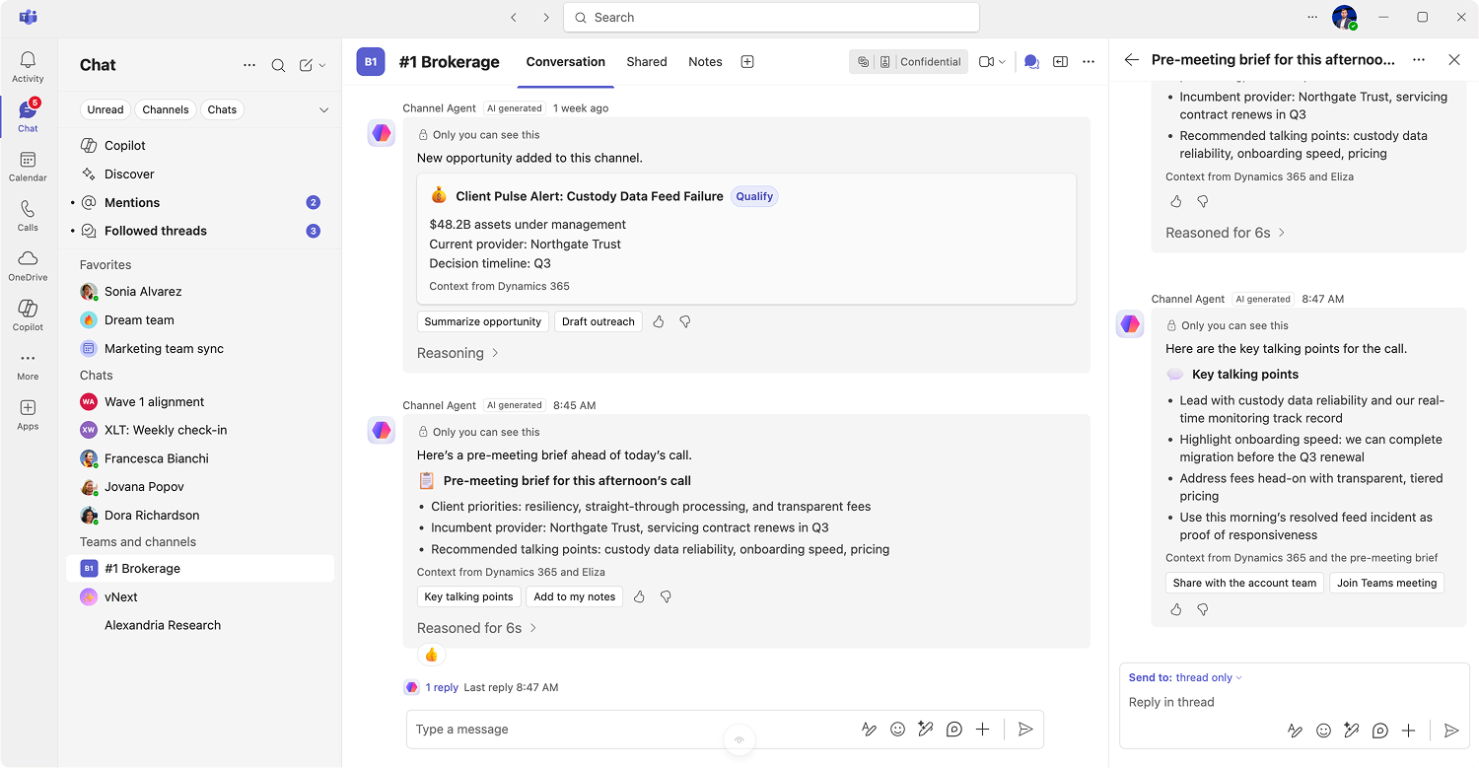
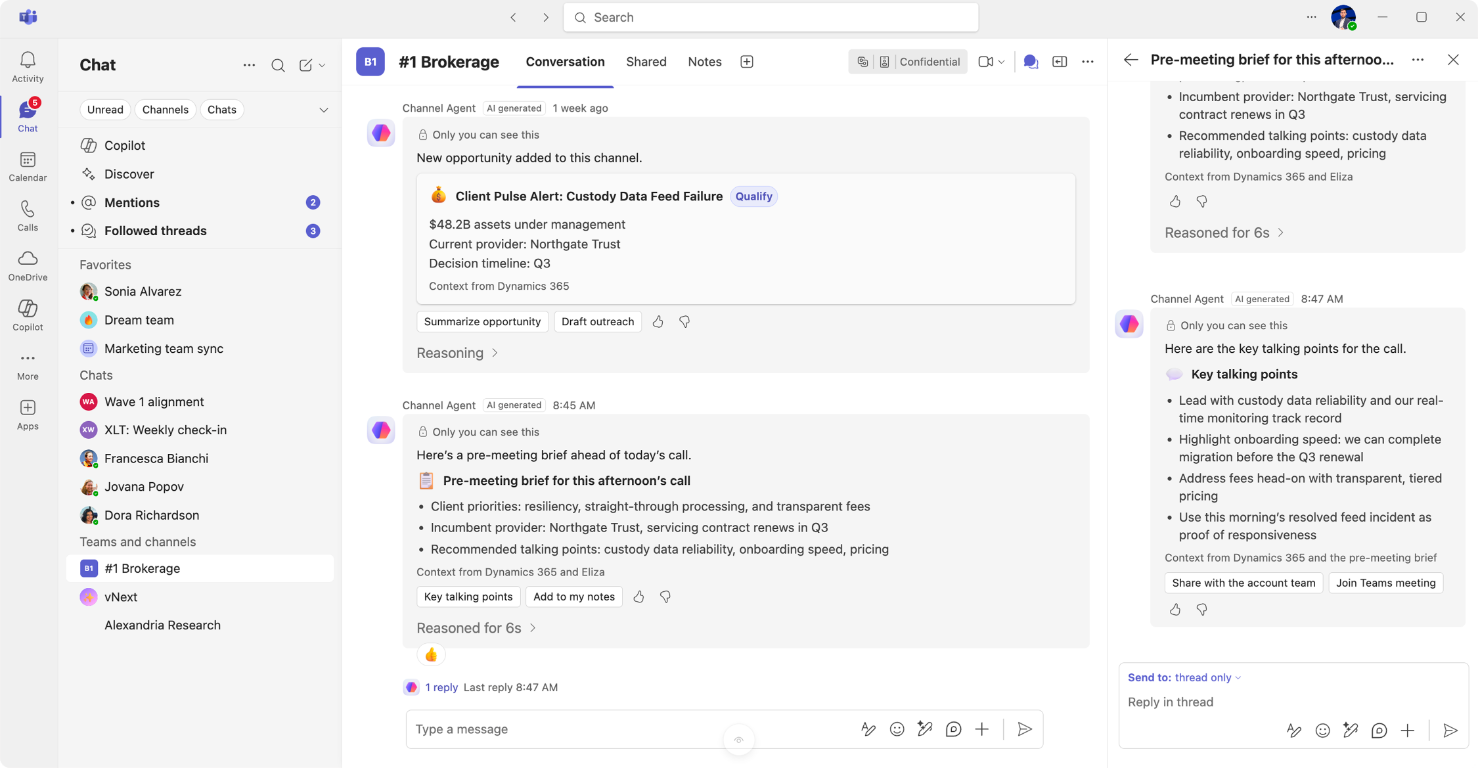
Update Connected Selling screenshot with cleaner export
Replace the PNG without resampling and align the declared image dimensions and documentation.

diff --git a/connected-selling.html b/connected-selling.html
@@ -133,7 +133,7 @@
       <figure class="demo-figure">
         <div class="annotated-screen">
           <a href="assets/connected-selling-overview.png" target="_blank" rel="noopener noreferrer" aria-label="Open the demo screenshot at full size in a new tab" aria-describedby="demo-screen-caption">
-            <img src="assets/connected-selling-overview.png" width="1479" height="768" fetchpriority="high" decoding="async" alt="Collaboration workspace prototype with fictional demo data showing an opportunity alert, a pre-meeting brief, and a talking-points thread in the right-side panel." />
+            <img src="assets/connected-selling-overview.png" width="1478" height="768" fetchpriority="high" decoding="async" alt="Collaboration workspace prototype with fictional demo data showing an opportunity alert, a pre-meeting brief, and a talking-points thread in the right-side panel." />
           </a>
           <span class="annotation-pin pin-context" aria-hidden="true">1</span>
           <span class="annotation-pin pin-brief" aria-hidden="true">2</span>

diff --git a/README.md b/README.md
@@ -113,7 +113,7 @@ and details in the image are fictional presentation data, so they are retained
 without redaction and labeled as fictional in the page caption. Product interface
 branding remains visible. The original attachment was not modified.
 A soft CSS shadow and rounded corners add elevation without an image border.
-The image is the original 1479 × 768 PNG, preserved byte-for-byte,
+The image is the latest supplied 1478 × 768 PNG, preserved byte-for-byte,
 without resampling or artificial upscaling. The full-size link uses the same PNG.
 Only a selected demo screen is shown; the full prototype is withheld for
 confidentiality, as explained in the page's introductory note.
